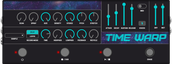
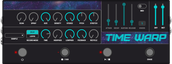
Add disabled state to midi controls in mod ui

Changed region(s): [[0.6105, 0.0312, 0.843, 0.4688], [0.3198, 0.75, 0.407, 0.875]]

diff --git a/lv2/dm-TimeWarp.lv2/modgui/javascript.js b/lv2/dm-TimeWarp.lv2/modgui/javascript.js
@@ -45,11 +45,24 @@ function(event) {
         break;
       case "midi_enabled":
         const midi = event.icon.find("[mod-port-symbol=midi_enabled]");
+        const attack = event.icon.find("[mod-port-symbol=attack]").parent();
+        const decay = event.icon.find("[mod-port-symbol=decay]").parent();
+        const sustain = event.icon.find("[mod-port-symbol=sustain]").parent();
+        const release = event.icon.find("[mod-port-symbol=release]").parent();
+        const voices = event.icon.find("[mod-port-symbol=voices]").parent();
+        const midi_controls = [attack, decay, sustain, release, voices];
         if(value == 1) {
           midi.addClass("on");
         } else {
           midi.removeClass("on");
         }
+        midi_controls.forEach(function(midi_control) {
+          if(value == 1) {
+            midi_control.removeClass("disabled");
+          } else {
+            midi_control.addClass("disabled");
+          }
+        })
         break;
       default:
         break;

diff --git a/lv2/dm-TimeWarp.lv2/modgui/stylesheet-dm-timewarp.css b/lv2/dm-TimeWarp.lv2/modgui/stylesheet-dm-timewarp.css
@@ -115,6 +115,10 @@
     line-height: 15px;
 }
 
+.mod-pedal{{{cns}}} .disabled {
+    opacity: 0.5;
+}
+
 /* = CONTAINER
 ================================================ */
 .mod-pedal{{{cns}}} {
